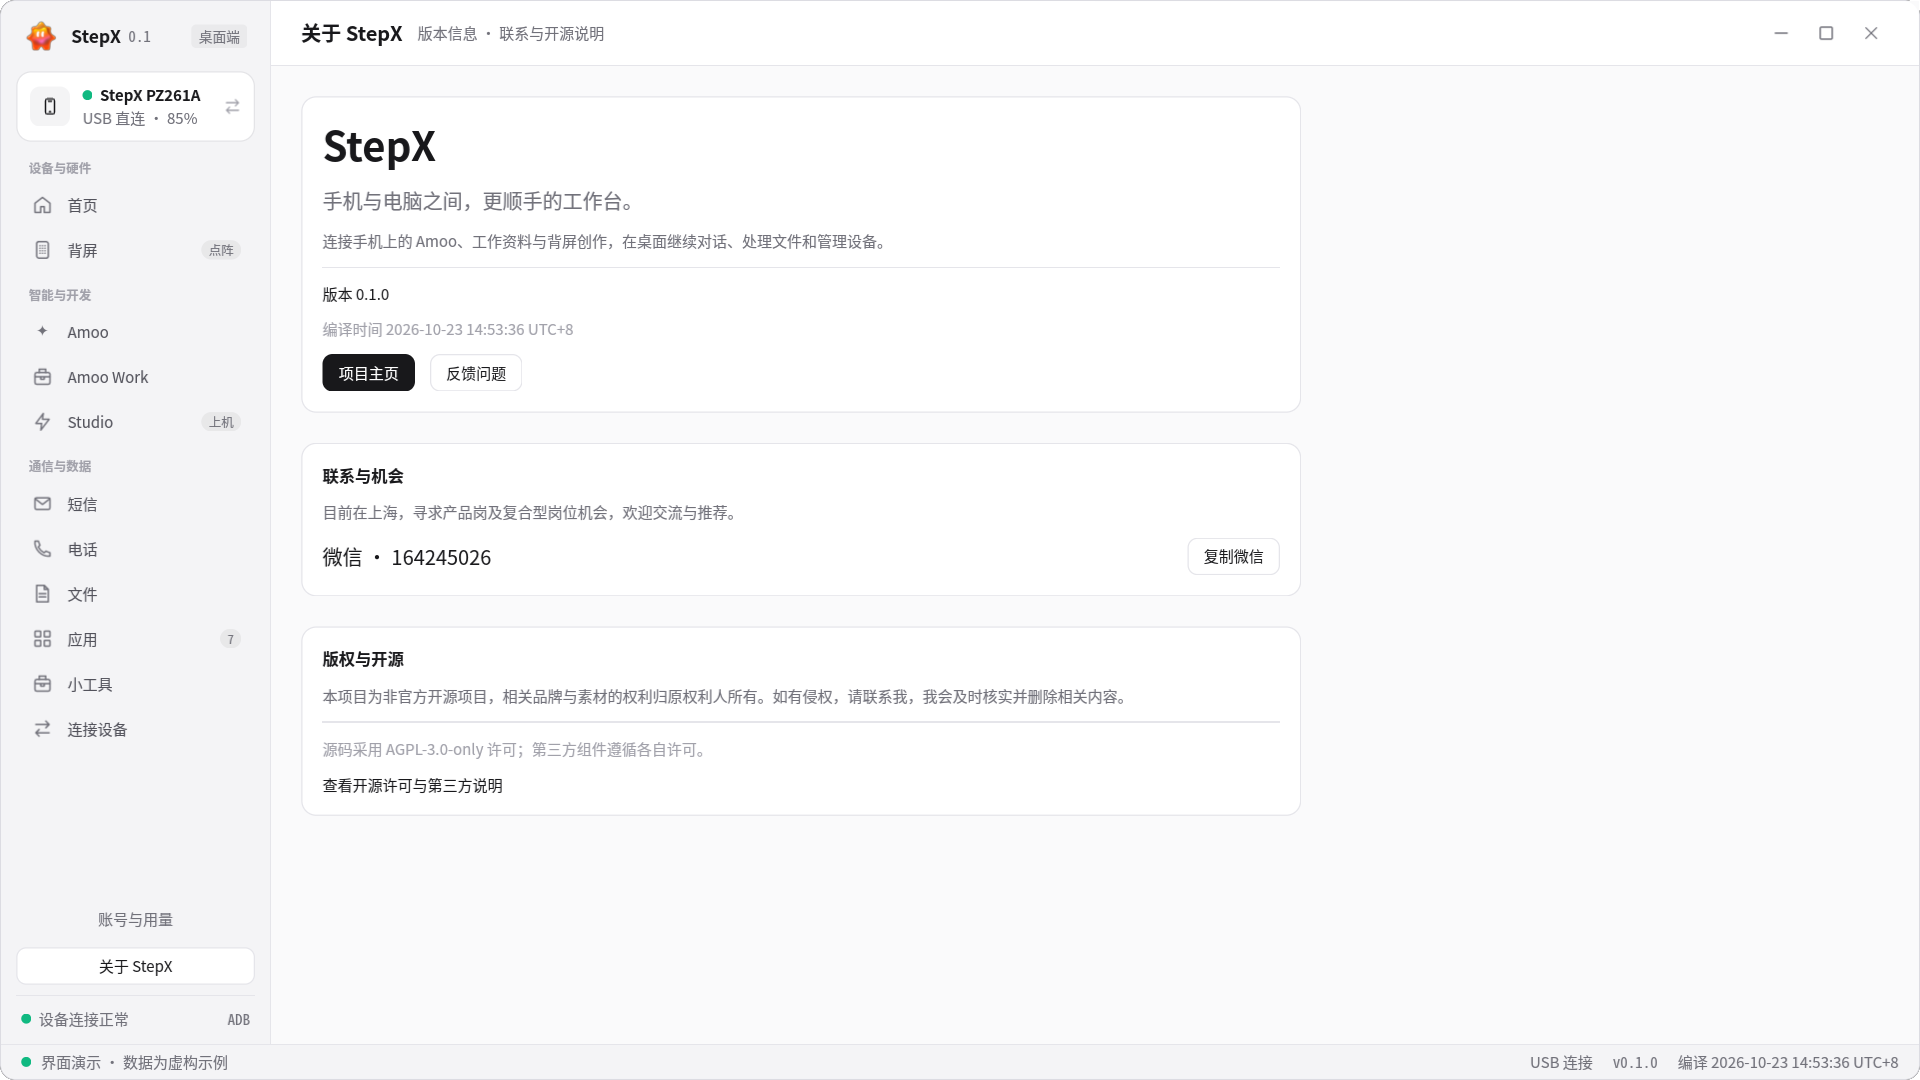
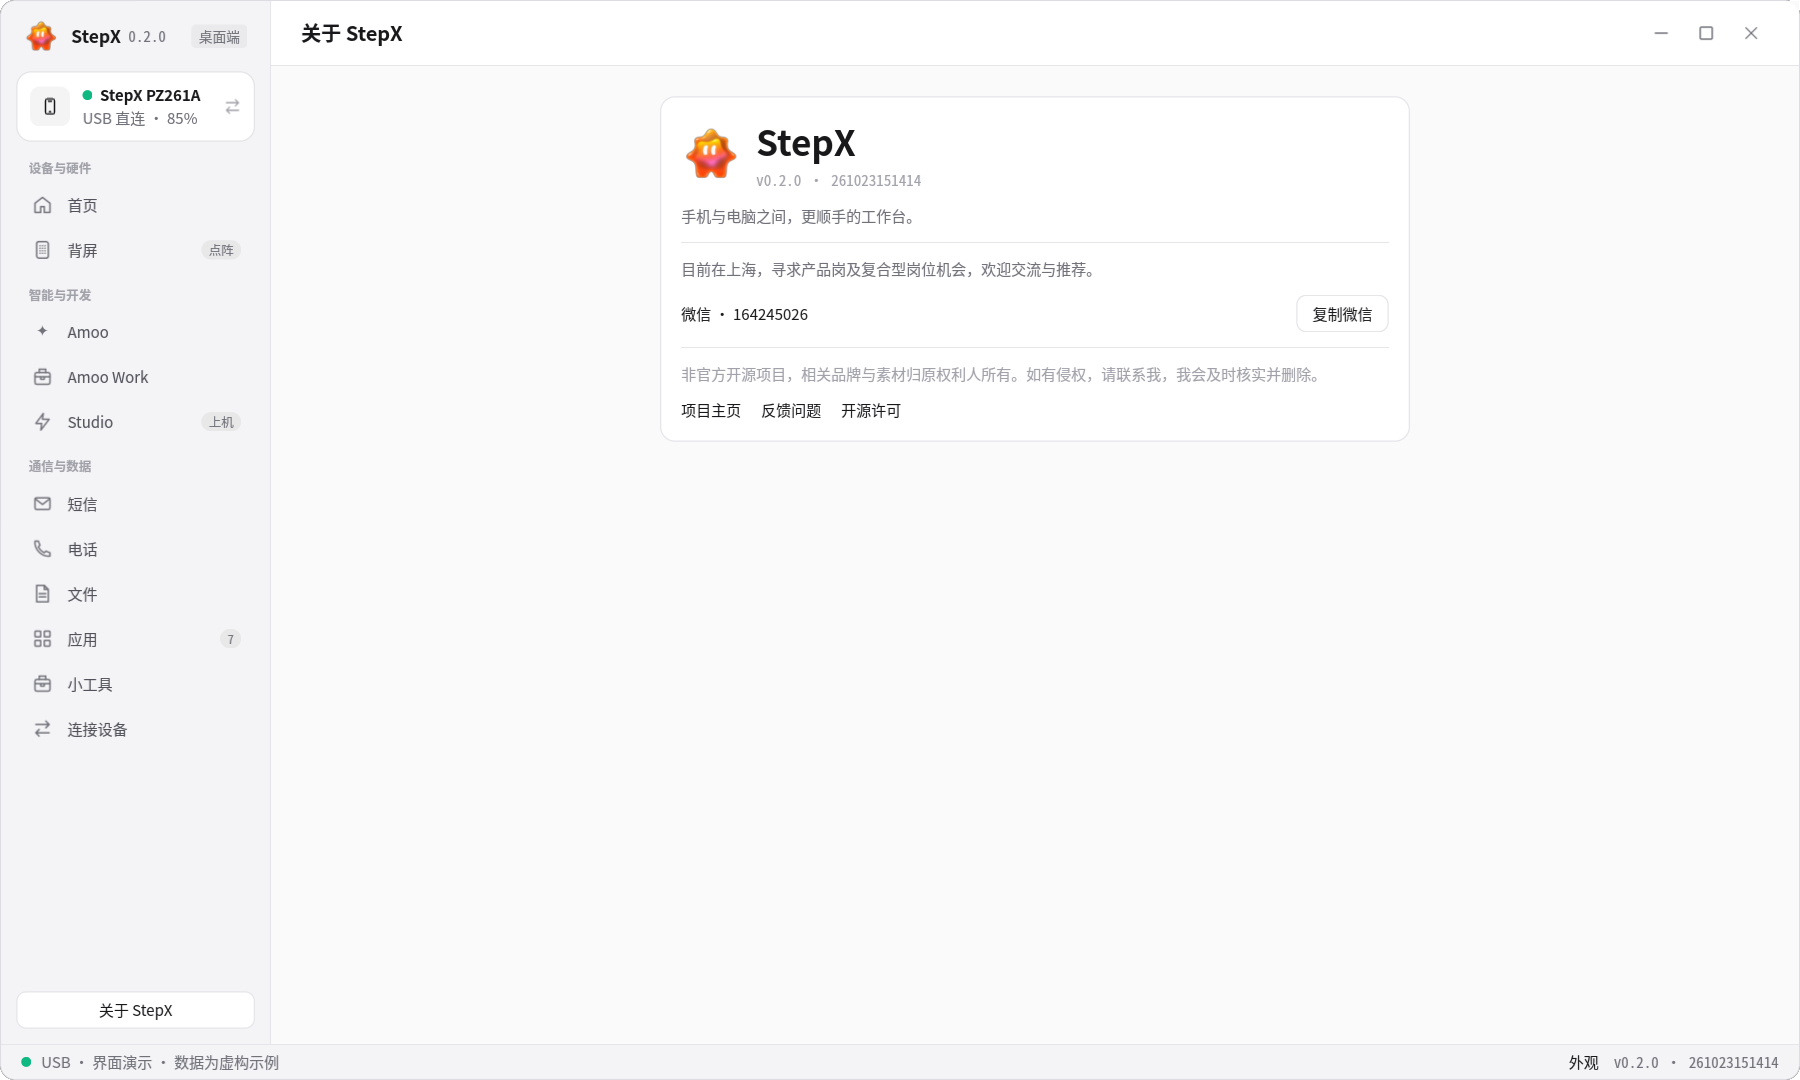
Simplify desktop navigation and About page for 0.2.0

diff --git a/desktop/src/ui/shell.rs b/desktop/src/ui/shell.rs
@@ -488,7 +488,7 @@ impl Companion {
                             6.,
                             vec![
                                 self.line_w("StepX", SUBHEAD, p.text, Weight::Semibold),
-                                self.mono("0.1", CAPTION, p.text2),
+                                self.mono(stepx_companion::build_info::VERSION, CAPTION, p.text2),
                             ],
                         ),
                     ],
@@ -525,7 +525,7 @@ impl Companion {
                             Page::Overview.icon(),
                             Page::Overview.title(),
                             None,
-                            self.page == Page::Overview,
+                            matches!(self.page, Page::Overview | Page::Account),
                             Action::Page(Page::Overview),
                         ),
                         self.nav_item_badge(
@@ -619,40 +619,6 @@ impl Companion {
             )
             .finish();
 
-        let footer_state = self.mouse_state("sidebar-footer");
-        let footer_row = self.between(
-            self.lead(
-                6.,
-                self.dot(if self.selected.is_some() {
-                    p.success
-                } else {
-                    p.text3
-                }),
-                self.line(
-                    if self.selected.is_some() {
-                        "设备连接正常"
-                    } else if self.initializing {
-                        "正在检测设备"
-                    } else {
-                        "等待设备连接"
-                    },
-                    CAPTION,
-                    p.text2,
-                ),
-            ),
-            self.mono("ADB", CAPTION, p.text2),
-        );
-        let footer = Hoverable::new(footer_state, move |_| {
-            Container::new(footer_row)
-                .with_padding_top(10.)
-                .with_horizontal_padding(4.)
-                .with_border(Border::top(1.).with_border_color(p.border))
-                .finish()
-        })
-        .with_cursor(Cursor::PointingHand)
-        .on_click(|ctx, _, _| ctx.dispatch_typed_action(Action::CycleTheme))
-        .finish();
-
         self.fixed_w(
             SIDEBAR_W,
             Container::new(
@@ -664,14 +630,7 @@ impl Companion {
                     .with_child(self.vstack(
                         S2,
                         vec![
-                            self.button(
-                                "sidebar-account",
-                                "账号与用量",
-                                Action::Page(Page::Account),
-                                Btn::Ghost,
-                            ),
                             self.button("sidebar-about", "关于 StepX", Action::Page(Page::About), if self.page == Page::About { Btn::Secondary } else { Btn::Ghost }),
-                            footer,
                         ],
                     ))
                     .finish(),
@@ -742,8 +701,8 @@ impl Companion {
     }
 
     fn page_subtitle(&self) -> String {
-        if self.selected.is_none() && self.page != Page::Connect {
-            return "当前未选择设备".into();
+        if self.selected.is_none() && self.page.needs_device() {
+            return String::new();
         }
         match self.page {
             Page::Overview => {
@@ -763,7 +722,7 @@ impl Companion {
             Page::BackScreen => "17 列 × 23 行 · 379 颗单色灯珠 · 创作与手机联动".into(),
             Page::Amoo => "后台连接 · 会话与文字对话".into(),
             Page::Account => "手机账号 · 真实消息 Token 用量".into(),
-            Page::About => "版本信息 · 联系与开源说明".into(),
+            Page::About => String::new(),
             Page::Work => "手机任务同步 · 本地文件协作".into(),
             Page::Studio => "studio.stepx.com 应用一键上机建图标 · OpenClaw 远端反向代理".into(),
             Page::Sms => {
@@ -805,7 +764,7 @@ impl Companion {
 
     pub(super) fn header(&self) -> El {
         let p = self.p();
-        let mut actions = if self.selected.is_none() && self.page != Page::Connect {
+        let mut actions = if self.selected.is_none() && self.page.needs_device() && self.page != Page::Overview {
             vec![
                 self.button("hdr-rescan", "重新扫描", Action::Refresh, Btn::Secondary),
                 self.button(
@@ -887,45 +846,27 @@ impl Companion {
 
     pub(super) fn status_bar(&self) -> El {
         let p = self.p();
+        let transport = match &self.selected {
+            Some(d) if is_wireless(&d.transport) => "无线",
+            Some(_) => "USB",
+            None => "ADB",
+        };
+        let detail = if self.status.is_empty() || self.status == "就绪" {
+            if self.initializing { "正在检测设备" }
+            else if self.selected.is_some() { "设备已连接" }
+            else { "等待设备连接" }
+        } else { &self.status };
         let left = self.lead(
             S2,
-            self.dot(if self.error {
-                p.danger
-            } else if self.busy {
-                p.warning
-            } else {
-                p.success
-            }),
-            self.line(
-                &self.status,
-                CAPTION,
-                if self.error { p.danger } else { p.text2 },
-            ),
+            self.dot(if self.error { p.danger } else if self.busy || self.initializing { p.warning }
+                else if self.selected.is_some() { p.success } else { p.text3 }),
+            self.line(format!("{transport} · {detail}"), CAPTION, if self.error { p.danger } else { p.text2 }),
         );
-        let right = self.hstack(
-            S4,
-            vec![
-                self.line(
-                    match &self.selected {
-                        Some(d) if is_wireless(&d.transport) => "无线连接",
-                        Some(_) => "USB 连接",
-                        None => "未连接设备",
-                    },
-                    CAPTION,
-                    p.text2,
-                ),
-                self.mono(
-                    format!("v{}", stepx_companion::build_info::VERSION),
-                    CAPTION,
-                    p.text2,
-                ),
-                self.line(
-                    format!("编译 {}", stepx_companion::build_info::compiled_at()),
-                    CAPTION,
-                    p.text2,
-                ),
-            ],
-        );
+        let right = self.hstack(S3, vec![
+            self.link_action("status-theme", "外观", Action::CycleTheme),
+            self.mono(format!("v{} · {}", stepx_companion::build_info::VERSION,
+                stepx_companion::build_info::compiled_id()), CAPTION, p.text2),
+        ]);
         ConstrainedBox::new(
             Container::new(self.between(left, right))
                 .with_horizontal_padding(S4)

diff --git a/desktop/src/ui/pages/about.rs b/desktop/src/ui/pages/about.rs
@@ -4,35 +4,30 @@ use facloud_ui::{elements::*, fonts::Weight};
 impl Companion {
     pub(in super::super) fn about_page(&self) -> El {
         let p = self.p();
-        let info = self.vstack(S5, vec![
-            self.panel(vec![
-                self.line_w("StepX", 32., p.text, Weight::Bold),
-                self.text("手机与电脑之间，更顺手的工作台。", TITLE, p.text2),
-                self.text("连接手机上的 Amoo、工作资料与背屏创作，在桌面继续对话、处理文件和管理设备。", BODY, p.text2),
-                self.divider(),
-                self.line(format!("版本 {}", stepx_companion::build_info::VERSION), BODY, p.text),
-                self.line(format!("编译时间 {}", stepx_companion::build_info::compiled_at()), CAPTION, p.text3),
-                self.hstack(S3, vec![
-                    self.button("about-repository", "项目主页", Action::StudioOpenUrl("https://github.com/xydzf520/stepx".into()), Btn::Primary),
-                    self.button("about-feedback", "反馈问题", Action::StudioOpenUrl("https://github.com/xydzf520/stepx/issues".into()), Btn::Secondary),
-                ]),
-            ]),
-            self.panel(vec![
-                self.line_w("联系与机会", HEADING, p.text, Weight::Semibold),
-                self.text("目前在上海，寻求产品岗及复合型岗位机会，欢迎交流与推荐。", BODY, p.text2),
-                self.between(
-                    self.line_w("微信 · 164245026", TITLE, p.text, Weight::Medium),
-                    self.button("about-copy-wechat", "复制微信", Action::CopyText("164245026".into(), "微信号已复制".into()), Btn::Secondary),
-                ),
-            ]),
-            self.panel(vec![
-                self.line_w("版权与开源", HEADING, p.text, Weight::Semibold),
-                self.text("本项目为非官方开源项目，相关品牌与素材的权利归原权利人所有。如有侵权，请联系我，我会及时核实并删除相关内容。", BODY, p.text2),
-                self.divider(),
-                self.text("源码采用 AGPL-3.0-only 许可；第三方组件遵循各自许可。", CAPTION, p.text3),
-                self.link_action("about-license", "查看开源许可与第三方说明", Action::StudioOpenUrl("https://github.com/xydzf520/stepx/blob/main/THIRD_PARTY_NOTICES.md".into())),
+        let logo = ConstrainedBox::new(Image::new(
+            facloud_ui::assets::asset_cache::AssetSource::Bundled { path: "amoo_desktop_icon.png" },
+            CacheOption::BySize,
+        ).contain().finish()).with_width(48.).with_height(48.).finish();
+        let card = self.panel(vec![
+            self.hstack(S3, vec![logo, self.vstack(S1, vec![
+                self.line_w("StepX", 28., p.text, Weight::Bold),
+                self.mono(format!("v{} · {}", stepx_companion::build_info::VERSION, stepx_companion::build_info::compiled_id()), CAPTION, p.text3),
+            ])]),
+            self.text("手机与电脑之间，更顺手的工作台。", BODY, p.text2),
+            self.divider(),
+            self.text("目前在上海，寻求产品岗及复合型岗位机会，欢迎交流与推荐。", BODY, p.text2),
+            self.between(
+                self.line_w("微信 · 164245026", BODY, p.text, Weight::Medium),
+                self.button("about-copy-wechat", "复制微信", Action::CopyText("164245026".into(), "微信号已复制".into()), Btn::Secondary),
+            ),
+            self.divider(),
+            self.text("非官方开源项目，相关品牌与素材归原权利人所有。如有侵权，请联系我，我会及时核实并删除。", CAPTION, p.text3),
+            self.hstack(S4, vec![
+                self.link_action("about-repository", "项目主页", Action::StudioOpenUrl("https://github.com/xydzf520/stepx".into())),
+                self.link_action("about-feedback", "反馈问题", Action::StudioOpenUrl("https://github.com/xydzf520/stepx/issues".into())),
+                self.link_action("about-license", "开源许可", Action::StudioOpenUrl("https://github.com/xydzf520/stepx/blob/main/THIRD_PARTY_NOTICES.md".into())),
             ]),
         ]);
-        ConstrainedBox::new(info).with_max_width(800.).finish()
+        Align::new(ConstrainedBox::new(card).with_max_width(600.).finish()).top_center().finish()
     }
 }

diff --git a/desktop/src/ui/pages/overview.rs b/desktop/src/ui/pages/overview.rs
@@ -13,6 +13,7 @@ impl Companion {
     pub(in super::super) fn overview_actions(&self) -> Vec<El> {
         if self.selected.is_none() {
             return vec![
+                self.button("ov-account", "账号与用量", Action::Page(Page::Account), Btn::Secondary),
                 self.button("ov-refresh", "重新扫描", Action::Refresh, Btn::Secondary),
                 self.button(
                     "ov-connect",
@@ -23,6 +24,7 @@ impl Companion {
             ];
         }
         vec![
+            self.button("ov-account", "账号与用量", Action::Page(Page::Account), Btn::Secondary),
             self.button("ov-summary", "刷新状态", Action::Summary, Btn::Secondary),
             self.button("ov-shot", "📷 截屏", Action::Screenshot, Btn::Secondary),
             if self.mirror.is_some() {

diff --git a/scripts/package-release.py b/scripts/package-release.py
@@ -40,7 +40,7 @@ def main():
         shutil.copytree(ROOT/'licenses',resource_dir/'licenses')
         for file in ['LICENSE','NOTICE','THIRD_PARTY_NOTICES.md','README.md']:
             shutil.copy2(ROOT/file,resource_dir/file)
-        shutil.copytree(ROOT/'docs',resource_dir/'docs',ignore=shutil.ignore_patterns('images'))
+        shutil.copytree(ROOT/'docs',resource_dir/'docs')
         filename,digest=TOOLS[a.platform];download=stage/filename
         urllib.request.urlretrieve('https://github.com/Genymobile/scrcpy/releases/download/v5.0.1/'+filename,download)
         if hashlib.sha256(download.read_bytes()).hexdigest()!=digest:raise RuntimeError('Tool archive SHA256 mismatch')

diff --git a/desktop/src/build_info.rs b/desktop/src/build_info.rs
@@ -17,3 +17,13 @@ pub fn compiled_at() -> &'static str {
             .to_string()
     })
 }
+
+/// Compact build identifier, consistently expressed in China Standard Time.
+pub fn compiled_id() -> &'static str {
+    static LABEL: OnceLock<String> = OnceLock::new();
+    LABEL.get_or_init(|| {
+        chrono::DateTime::from_timestamp(COMPILED_UNIX_SECONDS.parse().unwrap(), 0).unwrap()
+            .with_timezone(&chrono::FixedOffset::east_opt(8 * 60 * 60).unwrap())
+            .format("%y%m%d%H%M%S").to_string()
+    })
+}

diff --git a/desktop/src/main.rs b/desktop/src/main.rs
@@ -5,9 +5,9 @@ mod ui;
 fn main() -> anyhow::Result<()> {
     if std::env::args().any(|arg| arg == "--version" || arg == "-V") {
         println!(
-            "StepX Companion v{} · 编译 {}",
+            "StepX Companion v{} · {}",
             stepx_companion::build_info::VERSION,
-            stepx_companion::build_info::compiled_at()
+            stepx_companion::build_info::compiled_id()
         );
         return Ok(());
     }

diff --git a/CHANGELOG.md b/CHANGELOG.md
@@ -1,12 +1,13 @@
 # 更新记录
 
-## 0.1.0 · 首个公开预览版
+## 0.2.0 · 首个公开预览版
 
 - 发布独立可构建的 Rust 原生桌面应用与 StepX伴侣源码。
 - 集成 Amoo 会话、格式化内容、附件、定时任务和用量界面。
 - 集成 Amoo Work 文件协作、Office 输出、图片缓存与成果预览。
 - 集成背屏点阵创作、动画、亮度控制与伴侣小游戏。
 - 提供设备、短信、电话、文件、应用与小工具管理。
+- 账号入口移至首页，统一连接状态栏，使用紧凑的 12 位构建标识。
 - 增加「关于 StepX」、联系信息、版权说明与复制微信入口。
 - 增加 Linux、macOS 双架构和 Windows 的原生 CI 打包。
 - 清理本机硬编码路径、账号与设备私有材料；保留第三方许可。

diff --git a/docs/GETTING_STARTED.md b/docs/GETTING_STARTED.md
@@ -20,7 +20,7 @@ Windows 若无法识别手机，请使用手机厂商提供的 USB 驱动。Linu
 
 ## Amoo 与 Work
 
-手机先登录 Amoo，再在桌面同步会话。Work 可选择手机处理、桌面协作或图片创作。桌面协作应选择专用工作文件夹，添加资料后描述任务，在成果栏查看输出。若模型或权限不可用，按返回状态处理，不要反复提交相同任务。
+手机先登录 Amoo，再在桌面同步会话。账号与 token 用量可从「首页」右上角「账号与用量」查看。Work 可选择手机处理、桌面协作或图片创作。桌面协作应选择专用工作文件夹，添加资料后描述任务，在成果栏查看输出。若模型或权限不可用，按返回状态处理，不要反复提交相同任务。
 
 ## 附件与缓存
 

diff --git a/docs/BUILDING.md b/docs/BUILDING.md
@@ -32,7 +32,7 @@ python3 -m unittest discover -s desktop/tests -p 'test_*.py'
 ## 发布包
 
 ```bash
-python3 scripts/package-release.py --platform linux-x86_64 --version 0.1.0
+python3 scripts/package-release.py --platform linux-x86_64 --version 0.2.0
 ```
 
 平台可选 `linux-x86_64`、`macos-arm64`、`macos-x86_64`、`windows-x86_64`。脚本验证官方 scrcpy 工具包的 SHA256，将可执行文件与运行资源封装到 `dist/`。通过 `.github/workflows/release.yml` 的手动运行构建全部平台；先生成草稿 Release，检查产物后再发布。
